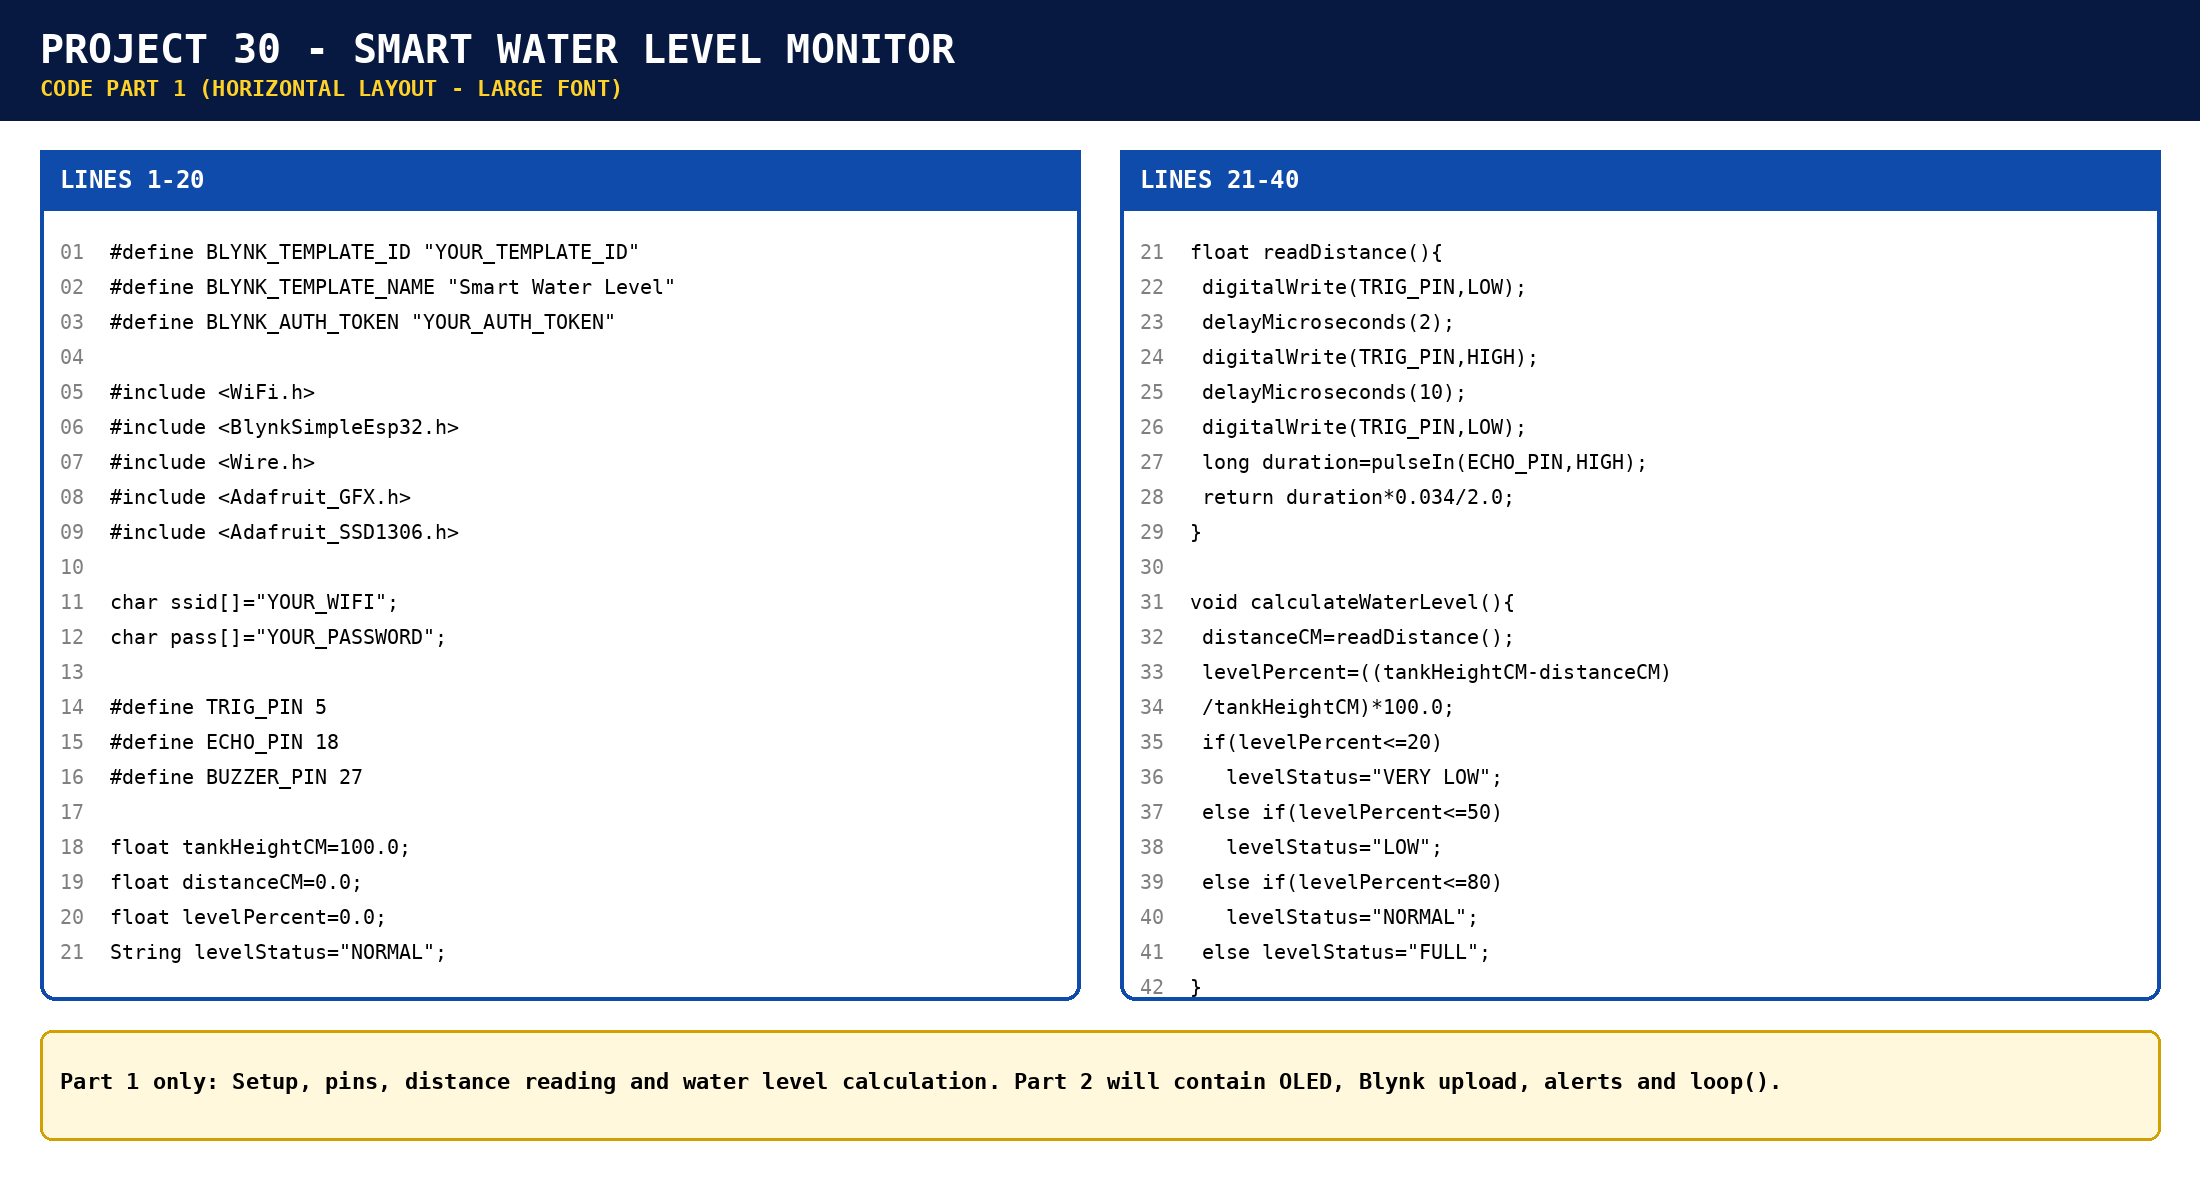
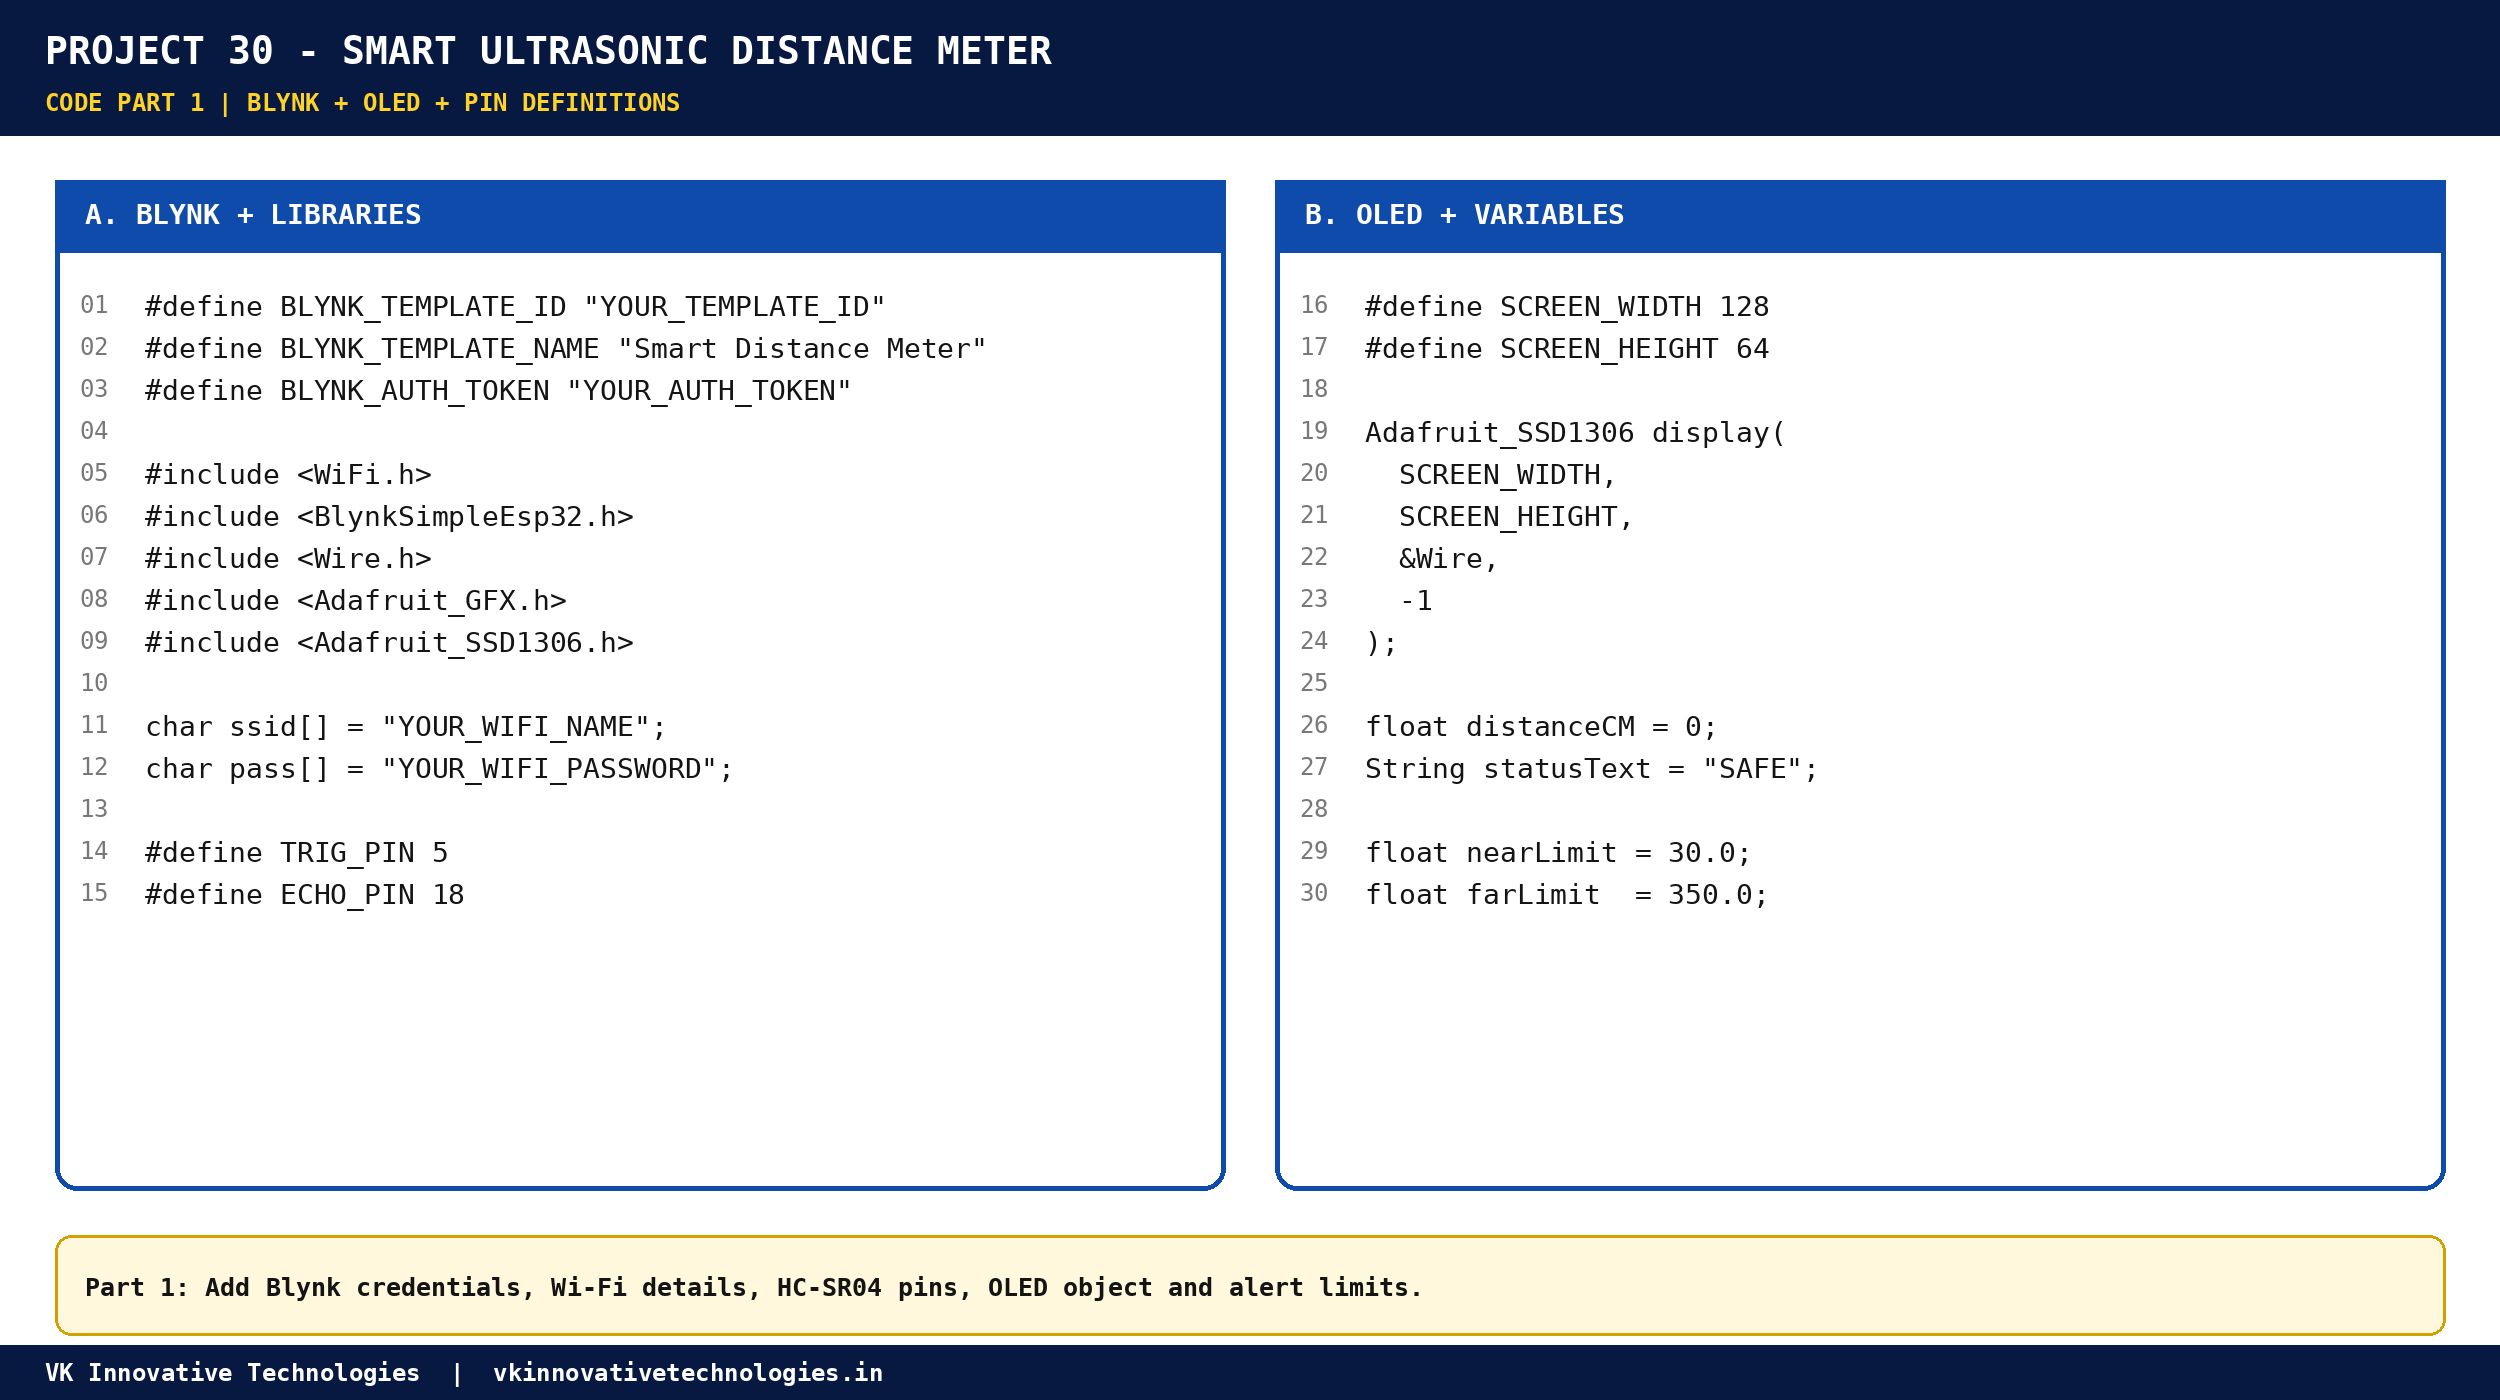
project 30 is updated

Changed region(s): [[0.0, 0.0, 1.0, 1.0]]

diff --git a/vk frontend/Resources level 2.html b/vk frontend/Resources level 2.html
@@ -252,7 +252,7 @@
 
                 <div class="col-sm-6 col-lg-4">
                     <a href="javascript:void(0)" class="cat-card"
-                        onclick="showProjectPhoto(['Resources kit 2 images/project2.png','Resources kit 2 images/project2code1.png','Resources kit 2 images/project2code1.png'], 'Project 2 – Bluetooth RGB LED Control'); return false;">
+                        onclick="showProjectPhoto(['Resources kit 2 images/project2.png','Resources kit 2 images/project2code1.png','Resources kit 2 images/project2code2.png'], 'Project 2 – Bluetooth RGB LED Control'); return false;">
                         <div class="cat-icon bg-cyan"><i class="fas fa-palette c-cyan"></i></div>
                         <h5>Project 2 – Bluetooth RGB LED Control</h5>
                         <p>A wireless color mixing system that lets you choose custom colors on an RGB LED using a
@@ -533,7 +533,7 @@
 
                 <div class="col-sm-6 col-lg-4">
                     <a href="javascript:void(0)" class="cat-card"
-                        onclick="showProjectPhoto(['Resources kit 2 images/project30.png','Resources kit 2 images/project30code1.png','Resources kit 2 images/project30code2.png','Resources kit 2 images/project30appmaking.png','Resources kit 2 images/project30app.png'], 'Project 30 – Smart Ultrasonic Distance Meter'); return false;">
+                        onclick="showProjectPhoto(['Resources kit 2 images/project30.png','Resources kit 2 images/project30code1.png','Resources kit 2 images/project30code2.png','Resources kit 2 images/project30code3.png','Resources kit 2 images/project30guide.png'], 'Project 30 – Smart Ultrasonic Distance Meter'); return false;">
                         <div class="cat-icon bg-pink"><i class="fas fa-broadcast-tower c-white"></i></div>
                         <h5>Project 30 – Smart Ultrasonic Distance Meter</h5>
                         <p>A wireless measuring module that uses high-frequency sound waves to gauge spatial gaps and